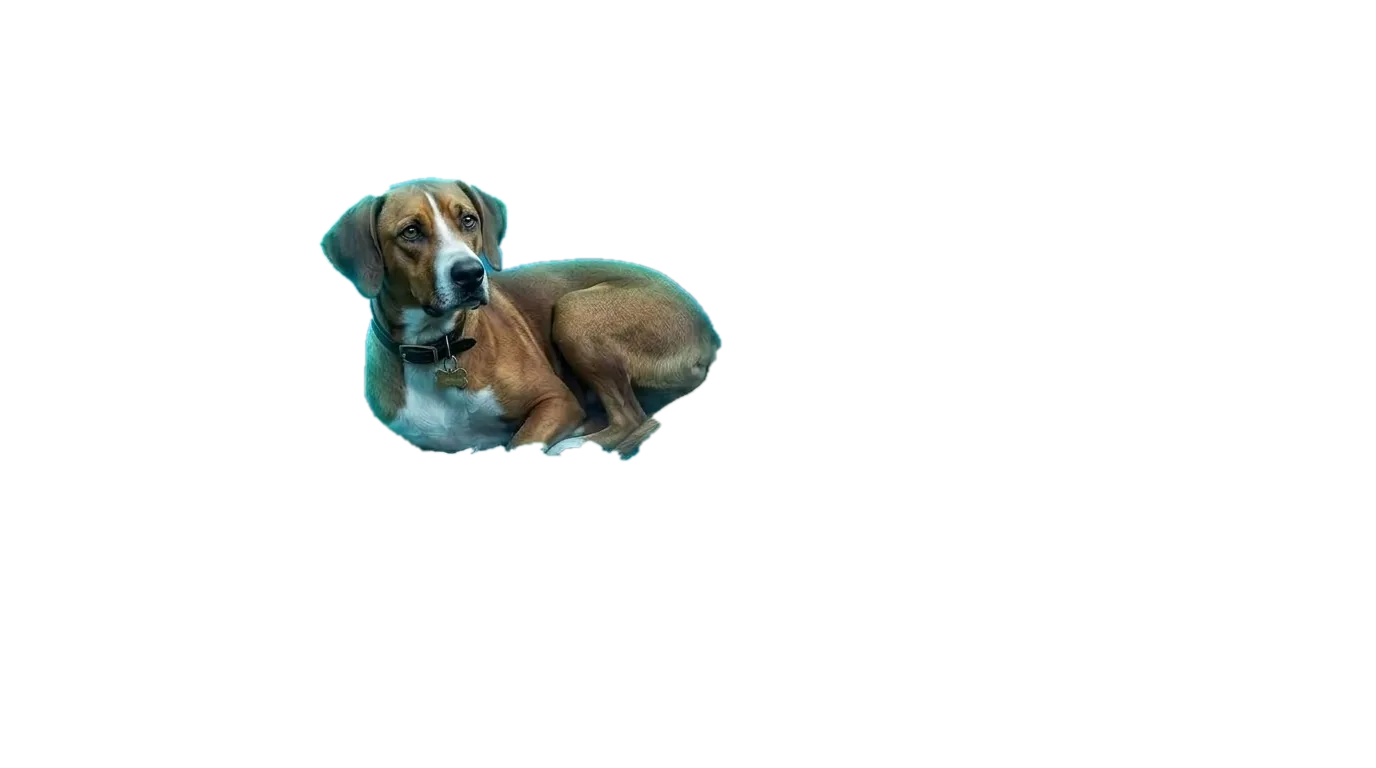
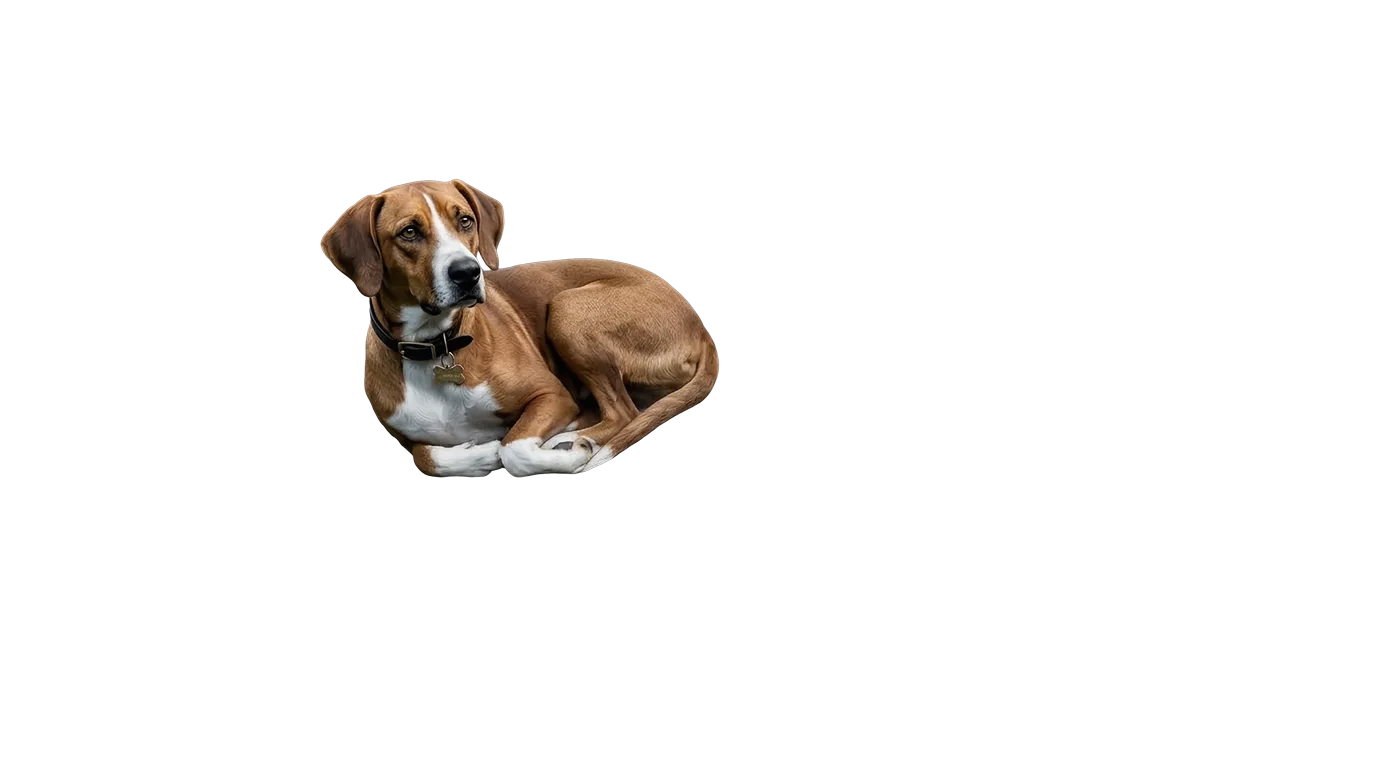
Catalog header: clean diver and Marley PNGs; back to the old header height
- Marley and the diver are now the clean transparent PNGs (no clipped
  edges, nothing behind the shoulder); the cube is its own layer and
  moves with the diver. The round deep-sea badge is rebuilt from the
  same layers, so no older cut-outs remain.
- The header is back to its earlier height (300px): the whole scene
  fits on the right with its left edge fading into the water colour,
  title and intro on the left. On phones the scene runs full width on
  top with the text below.

Claude-Session: https://claude.ai/code/session_0195hiXiVZY5DpQ2CCYEr2vL

Changed region(s): [[0.2188, 0.2188, 0.5312, 0.625]]

diff --git a/index.html b/index.html
@@ -4,8 +4,8 @@
 <meta charset="UTF-8">
 <meta name="viewport" content="width=device-width, initial-scale=1">
 <title>Parts Catalog — Christian Gehrke</title>
-<link rel="stylesheet" href="css/catalog.css?v=1793570000">
-<link rel="stylesheet" href="css/logo.css?v=5">
+<link rel="stylesheet" href="css/catalog.css?v=1793590000">
+<link rel="stylesheet" href="css/logo.css?v=6">
 <link rel="icon" href="/favicon.ico?v=2" sizes="any"><link rel="icon" href="/favicon.svg?v=2" type="image/svg+xml"><link rel="apple-touch-icon" href="/apple-touch-icon.png?v=2">
 <script>/* Logo season from the calendar (the homepage sets it from its own scene). */document.documentElement.dataset.season=["winter","winter","spring","spring","spring","summer","summer","summer","fall","fall","fall","winter"][new Date().getMonth()];</script>
 
@@ -13,7 +13,7 @@
 <body class="deep">
 
 <header class="cat-head cat-hero">
-  <div class="hero-stage" aria-hidden="true"><img src="assets/hero/plate.webp" srcset="assets/hero/plate-800.webp 800w, assets/hero/plate.webp 1376w" sizes="max(100vw, 760px)" alt=""><img class="hero-critter hc-1" src="assets/hero/c-moon.webp" alt=""><img class="hero-critter hc-2" src="assets/hero/c-comb.webp" alt=""><img class="hero-critter hc-3" src="assets/hero/c-blue.webp" alt=""><img class="hero-jelly hero-float" src="assets/hero/jelly.webp" srcset="assets/hero/jelly-800.webp 800w, assets/hero/jelly.webp 1376w" sizes="max(100vw, 760px)" alt=""><img class="hero-float" src="assets/hero/dog.webp" srcset="assets/hero/dog-800.webp 800w, assets/hero/dog.webp 1376w" sizes="max(100vw, 760px)" alt=""><img class="hero-diver" src="assets/hero/diver.webp" srcset="assets/hero/diver-800.webp 800w, assets/hero/diver.webp 1376w" sizes="max(100vw, 760px)" alt=""><svg class="hero-fx" viewBox="0 0 1376 768" preserveAspectRatio="xMidYMid slice"><defs><radialGradient id="hLamp"><stop offset="0" stop-color="#eaf8ff" stop-opacity=".9"/><stop offset=".35" stop-color="#8fd8ff" stop-opacity=".4"/><stop offset="1" stop-color="#3aa0ff" stop-opacity="0"/></radialGradient><radialGradient id="hCube"><stop offset="0" stop-color="#c58bff" stop-opacity=".75"/><stop offset=".45" stop-color="#6fd6ff" stop-opacity=".3"/><stop offset="1" stop-color="#5a3cff" stop-opacity="0"/></radialGradient><radialGradient id="hJelly"><stop offset="0" stop-color="#7fffe0" stop-opacity=".42"/><stop offset=".6" stop-color="#2fd0c8" stop-opacity=".18"/><stop offset="1" stop-color="#0a8fb0" stop-opacity="0"/></radialGradient><radialGradient id="hRay" cx=".5" cy="0" r="1"><stop offset="0" stop-color="#9fe6ff" stop-opacity=".35"/><stop offset="1" stop-color="#2a7fc0" stop-opacity="0"/></radialGradient></defs><ellipse class="hero-glow hero-ray" cx="1080" cy="0" rx="300" ry="420" fill="url(#hRay)"/><g class="hero-float"><circle class="hero-glow hero-g-jelly" cx="538" cy="318" r="330" fill="url(#hJelly)"/></g><circle class="hero-glow hero-g-lamp" cx="920" cy="165" r="95" fill="url(#hLamp)"/><circle class="hero-glow hero-g-lamp2" cx="1158" cy="290" r="88" fill="url(#hLamp)"/><circle class="hero-glow hero-g-cube" cx="875" cy="520" r="150" fill="url(#hCube)"/><g class="hero-snow" fill="#cfefff"><circle cx="705" cy="524" r="1.3" style="animation-duration:20.3s;animation-delay:-20.2s"/><circle cx="221" cy="603" r="1.8" style="animation-duration:23.6s;animation-delay:-22.4s"/><circle cx="75" cy="443" r="2.1" style="animation-duration:15.1s;animation-delay:-8.9s"/><circle cx="1250" cy="371" r="2.1" style="animation-duration:18.1s;animation-delay:-24.0s"/><circle cx="1116" cy="94" r="1.2" style="animation-duration:17.8s;animation-delay:-4.6s"/><circle cx="160" cy="641" r="1.0" style="animation-duration:22.3s;animation-delay:-25.9s"/><circle cx="330" cy="737" r="0.9" style="animation-duration:25.8s;animation-delay:-13.9s"/><circle cx="831" cy="32" r="1.1" style="animation-duration:21.1s;animation-delay:-21.5s"/><circle cx="933" cy="666" r="1.4" style="animation-duration:14.7s;animation-delay:-23.8s"/><circle cx="67" cy="505" r="1.3" style="animation-duration:16.5s;animation-delay:-25.5s"/><circle cx="1155" cy="135" r="1.7" style="animation-duration:23.5s;animation-delay:-2.8s"/><circle cx="889" cy="381" r="1.0" style="animation-duration:24.1s;animation-delay:-7.7s"/><circle cx="928" cy="635" r="2.0" style="animation-duration:25.7s;animation-delay:-11.8s"/><circle cx="999" cy="705" r="1.8" style="animation-duration:19.7s;animation-delay:-7.6s"/><circle cx="826" cy="150" r="1.0" style="animation-duration:23.9s;animation-delay:-13.8s"/><circle cx="367" cy="642" r="2.1" style="animation-duration:24.4s;animation-delay:-4.7s"/><circle cx="1007" cy="278" r="1.5" style="animation-duration:20.6s;animation-delay:-13.1s"/><circle cx="129" cy="364" r="1.8" style="animation-duration:22.0s;animation-delay:-19.8s"/><circle cx="744" cy="572" r="1.8" style="animation-duration:17.4s;animation-delay:-12.6s"/><circle cx="601" cy="348" r="1.7" style="animation-duration:21.0s;animation-delay:-0.3s"/><circle cx="1120" cy="256" r="1.3" style="animation-duration:17.3s;animation-delay:-7.5s"/><circle cx="1024" cy="662" r="1.7" style="animation-duration:18.3s;animation-delay:-7.1s"/><circle cx="707" cy="755" r="2.1" style="animation-duration:18.9s;animation-delay:-24.0s"/><circle cx="353" cy="704" r="1.4" style="animation-duration:18.4s;animation-delay:-8.7s"/><circle cx="290" cy="542" r="2.2" style="animation-duration:16.4s;animation-delay:-9.4s"/><circle cx="977" cy="289" r="1.8" style="animation-duration:22.6s;animation-delay:-19.0s"/><circle cx="351" cy="631" r="1.9" style="animation-duration:21.0s;animation-delay:-17.3s"/><circle cx="861" cy="309" r="1.7" style="animation-duration:23.3s;animation-delay:-16.6s"/><circle cx="56" cy="200" r="1.0" style="animation-duration:19.3s;animation-delay:-16.9s"/><circle cx="448" cy="702" r="1.1" style="animation-duration:22.6s;animation-delay:-25.6s"/><circle cx="463" cy="169" r="0.9" style="animation-duration:15.6s;animation-delay:-8.3s"/><circle cx="371" cy="494" r="1.1" style="animation-duration:14.4s;animation-delay:-12.1s"/><circle cx="778" cy="678" r="1.7" style="animation-duration:21.1s;animation-delay:-6.2s"/><circle cx="765" cy="0" r="1.3" style="animation-duration:25.4s;animation-delay:-22.3s"/><circle cx="235" cy="705" r="2.0" style="animation-duration:18.5s;animation-delay:-0.9s"/><circle cx="1256" cy="308" r="0.9" style="animation-duration:20.5s;animation-delay:-8.8s"/><circle cx="1189" cy="300" r="2.1" style="animation-duration:23.8s;animation-delay:-10.9s"/><circle cx="1154" cy="657" r="1.6" style="animation-duration:19.6s;animation-delay:-4.1s"/><circle cx="783" cy="577" r="1.5" style="animation-duration:16.4s;animation-delay:-3.5s"/><circle cx="186" cy="359" r="1.9" style="animation-duration:21.9s;animation-delay:-9.9s"/><circle cx="667" cy="579" r="2.1" style="animation-duration:20.5s;animation-delay:-8.5s"/><circle cx="1155" cy="384" r="1.4" style="animation-duration:25.7s;animation-delay:-12.8s"/><circle cx="982" cy="725" r="1.3" style="animation-duration:25.5s;animation-delay:-23.8s"/><circle cx="1220" cy="608" r="1.2" style="animation-duration:25.8s;animation-delay:-12.9s"/><circle cx="850" cy="20" r="1.2" style="animation-duration:25.8s;animation-delay:-12.8s"/><circle cx="586" cy="146" r="1.5" style="animation-duration:15.5s;animation-delay:-16.2s"/></g><g fill="none" stroke="#bfeeff" stroke-width="1.6" opacity=".85"><circle class="hero-bub" cx="1024" cy="92" r="3.9" style="--sw:-14px;animation-duration:6.1s;animation-delay:-5.5s"/><circle class="hero-bub" cx="1038" cy="92" r="4.6" style="--sw:-8px;animation-duration:7.8s;animation-delay:-5.2s"/><circle class="hero-bub" cx="992" cy="92" r="4.3" style="--sw:-14px;animation-duration:7.6s;animation-delay:-3.0s"/><circle class="hero-bub" cx="1021" cy="92" r="3.9" style="--sw:-8px;animation-duration:7.2s;animation-delay:-3.3s"/><circle class="hero-bub" cx="1043" cy="92" r="6.0" style="--sw:-14px;animation-duration:6.2s;animation-delay:-6.1s"/><circle class="hero-bub" cx="993" cy="92" r="5.2" style="--sw:-14px;animation-duration:6.3s;animation-delay:-1.1s"/><circle class="hero-bub" cx="998" cy="92" r="5.7" style="--sw:-8px;animation-duration:7.9s;animation-delay:-1.3s"/><circle class="hero-bub" cx="1183" cy="108" r="3.3" style="--sw:-10px;animation-duration:6.1s;animation-delay:-7.0s"/><circle class="hero-bub" cx="1176" cy="108" r="4.9" style="--sw:10px;animation-duration:7.6s;animation-delay:-7.7s"/><circle class="hero-bub" cx="1184" cy="108" r="2.6" style="--sw:10px;animation-duration:6.7s;animation-delay:-7.5s"/><circle class="hero-bub" cx="1169" cy="108" r="3.3" style="--sw:10px;animation-duration:8.0s;animation-delay:-4.7s"/><circle class="hero-bub" cx="1169" cy="108" r="3.3" style="--sw:10px;animation-duration:8.0s;animation-delay:-3.8s"/><circle class="hero-bub" cx="517" cy="60" r="3.0" style="--sw:-10px;animation-duration:9.1s;animation-delay:-0.6s"/><circle class="hero-bub" cx="561" cy="60" r="3.7" style="--sw:10px;animation-duration:7.1s;animation-delay:-7.9s"/><circle class="hero-bub" cx="566" cy="60" r="3.2" style="--sw:-10px;animation-duration:7.0s;animation-delay:-0.5s"/><circle class="hero-bub" cx="629" cy="60" r="3.9" style="--sw:10px;animation-duration:7.6s;animation-delay:-7.6s"/></g></svg></div>
+  <div class="hero-stage" aria-hidden="true"><img src="assets/hero/plate.webp" srcset="assets/hero/plate-800.webp 800w, assets/hero/plate.webp 1376w" sizes="(max-width:640px) 100vw, 560px" alt=""><img class="hero-critter hc-1" src="assets/hero/c-moon.webp" alt=""><img class="hero-critter hc-2" src="assets/hero/c-comb.webp" alt=""><img class="hero-critter hc-3" src="assets/hero/c-blue.webp" alt=""><img class="hero-jelly hero-float" src="assets/hero/jelly.webp" srcset="assets/hero/jelly-800.webp 800w, assets/hero/jelly.webp 1376w" sizes="(max-width:640px) 100vw, 560px" alt=""><img class="hero-float hero-dog" src="assets/hero/dog.webp" srcset="assets/hero/dog-800.webp 800w, assets/hero/dog.webp 1376w" sizes="(max-width:640px) 100vw, 560px" alt=""><img class="hero-diver" src="assets/hero/diver.webp" srcset="assets/hero/diver-800.webp 800w, assets/hero/diver.webp 1376w" sizes="(max-width:640px) 100vw, 560px" alt=""><img class="hero-diver hero-cube" src="assets/hero/cube.webp" srcset="assets/hero/cube-800.webp 800w, assets/hero/cube.webp 1376w" sizes="(max-width:640px) 100vw, 560px" alt=""><svg class="hero-fx" viewBox="0 0 1376 768" preserveAspectRatio="xMidYMid slice"><defs><radialGradient id="hLamp"><stop offset="0" stop-color="#eaf8ff" stop-opacity=".9"/><stop offset=".35" stop-color="#8fd8ff" stop-opacity=".4"/><stop offset="1" stop-color="#3aa0ff" stop-opacity="0"/></radialGradient><radialGradient id="hCube"><stop offset="0" stop-color="#c58bff" stop-opacity=".75"/><stop offset=".45" stop-color="#6fd6ff" stop-opacity=".3"/><stop offset="1" stop-color="#5a3cff" stop-opacity="0"/></radialGradient><radialGradient id="hJelly"><stop offset="0" stop-color="#7fffe0" stop-opacity=".42"/><stop offset=".6" stop-color="#2fd0c8" stop-opacity=".18"/><stop offset="1" stop-color="#0a8fb0" stop-opacity="0"/></radialGradient><radialGradient id="hRay" cx=".5" cy="0" r="1"><stop offset="0" stop-color="#9fe6ff" stop-opacity=".35"/><stop offset="1" stop-color="#2a7fc0" stop-opacity="0"/></radialGradient></defs><ellipse class="hero-glow hero-ray" cx="1080" cy="0" rx="300" ry="420" fill="url(#hRay)"/><g class="hero-float"><circle class="hero-glow hero-g-jelly" cx="538" cy="318" r="330" fill="url(#hJelly)"/></g><circle class="hero-glow hero-g-lamp" cx="920" cy="165" r="95" fill="url(#hLamp)"/><circle class="hero-glow hero-g-lamp2" cx="1158" cy="290" r="88" fill="url(#hLamp)"/><circle class="hero-glow hero-g-cube" cx="875" cy="520" r="150" fill="url(#hCube)"/><g class="hero-snow" fill="#cfefff"><circle cx="705" cy="524" r="1.3" style="animation-duration:20.3s;animation-delay:-20.2s"/><circle cx="221" cy="603" r="1.8" style="animation-duration:23.6s;animation-delay:-22.4s"/><circle cx="75" cy="443" r="2.1" style="animation-duration:15.1s;animation-delay:-8.9s"/><circle cx="1250" cy="371" r="2.1" style="animation-duration:18.1s;animation-delay:-24.0s"/><circle cx="1116" cy="94" r="1.2" style="animation-duration:17.8s;animation-delay:-4.6s"/><circle cx="160" cy="641" r="1.0" style="animation-duration:22.3s;animation-delay:-25.9s"/><circle cx="330" cy="737" r="0.9" style="animation-duration:25.8s;animation-delay:-13.9s"/><circle cx="831" cy="32" r="1.1" style="animation-duration:21.1s;animation-delay:-21.5s"/><circle cx="933" cy="666" r="1.4" style="animation-duration:14.7s;animation-delay:-23.8s"/><circle cx="67" cy="505" r="1.3" style="animation-duration:16.5s;animation-delay:-25.5s"/><circle cx="1155" cy="135" r="1.7" style="animation-duration:23.5s;animation-delay:-2.8s"/><circle cx="889" cy="381" r="1.0" style="animation-duration:24.1s;animation-delay:-7.7s"/><circle cx="928" cy="635" r="2.0" style="animation-duration:25.7s;animation-delay:-11.8s"/><circle cx="999" cy="705" r="1.8" style="animation-duration:19.7s;animation-delay:-7.6s"/><circle cx="826" cy="150" r="1.0" style="animation-duration:23.9s;animation-delay:-13.8s"/><circle cx="367" cy="642" r="2.1" style="animation-duration:24.4s;animation-delay:-4.7s"/><circle cx="1007" cy="278" r="1.5" style="animation-duration:20.6s;animation-delay:-13.1s"/><circle cx="129" cy="364" r="1.8" style="animation-duration:22.0s;animation-delay:-19.8s"/><circle cx="744" cy="572" r="1.8" style="animation-duration:17.4s;animation-delay:-12.6s"/><circle cx="601" cy="348" r="1.7" style="animation-duration:21.0s;animation-delay:-0.3s"/><circle cx="1120" cy="256" r="1.3" style="animation-duration:17.3s;animation-delay:-7.5s"/><circle cx="1024" cy="662" r="1.7" style="animation-duration:18.3s;animation-delay:-7.1s"/><circle cx="707" cy="755" r="2.1" style="animation-duration:18.9s;animation-delay:-24.0s"/><circle cx="353" cy="704" r="1.4" style="animation-duration:18.4s;animation-delay:-8.7s"/><circle cx="290" cy="542" r="2.2" style="animation-duration:16.4s;animation-delay:-9.4s"/><circle cx="977" cy="289" r="1.8" style="animation-duration:22.6s;animation-delay:-19.0s"/><circle cx="351" cy="631" r="1.9" style="animation-duration:21.0s;animation-delay:-17.3s"/><circle cx="861" cy="309" r="1.7" style="animation-duration:23.3s;animation-delay:-16.6s"/><circle cx="56" cy="200" r="1.0" style="animation-duration:19.3s;animation-delay:-16.9s"/><circle cx="448" cy="702" r="1.1" style="animation-duration:22.6s;animation-delay:-25.6s"/><circle cx="463" cy="169" r="0.9" style="animation-duration:15.6s;animation-delay:-8.3s"/><circle cx="371" cy="494" r="1.1" style="animation-duration:14.4s;animation-delay:-12.1s"/><circle cx="778" cy="678" r="1.7" style="animation-duration:21.1s;animation-delay:-6.2s"/><circle cx="765" cy="0" r="1.3" style="animation-duration:25.4s;animation-delay:-22.3s"/><circle cx="235" cy="705" r="2.0" style="animation-duration:18.5s;animation-delay:-0.9s"/><circle cx="1256" cy="308" r="0.9" style="animation-duration:20.5s;animation-delay:-8.8s"/><circle cx="1189" cy="300" r="2.1" style="animation-duration:23.8s;animation-delay:-10.9s"/><circle cx="1154" cy="657" r="1.6" style="animation-duration:19.6s;animation-delay:-4.1s"/><circle cx="783" cy="577" r="1.5" style="animation-duration:16.4s;animation-delay:-3.5s"/><circle cx="186" cy="359" r="1.9" style="animation-duration:21.9s;animation-delay:-9.9s"/><circle cx="667" cy="579" r="2.1" style="animation-duration:20.5s;animation-delay:-8.5s"/><circle cx="1155" cy="384" r="1.4" style="animation-duration:25.7s;animation-delay:-12.8s"/><circle cx="982" cy="725" r="1.3" style="animation-duration:25.5s;animation-delay:-23.8s"/><circle cx="1220" cy="608" r="1.2" style="animation-duration:25.8s;animation-delay:-12.9s"/><circle cx="850" cy="20" r="1.2" style="animation-duration:25.8s;animation-delay:-12.8s"/><circle cx="586" cy="146" r="1.5" style="animation-duration:15.5s;animation-delay:-16.2s"/></g><g fill="none" stroke="#bfeeff" stroke-width="1.6" opacity=".85"><circle class="hero-bub" cx="1024" cy="92" r="3.9" style="--sw:-14px;animation-duration:6.1s;animation-delay:-5.5s"/><circle class="hero-bub" cx="1038" cy="92" r="4.6" style="--sw:-8px;animation-duration:7.8s;animation-delay:-5.2s"/><circle class="hero-bub" cx="992" cy="92" r="4.3" style="--sw:-14px;animation-duration:7.6s;animation-delay:-3.0s"/><circle class="hero-bub" cx="1021" cy="92" r="3.9" style="--sw:-8px;animation-duration:7.2s;animation-delay:-3.3s"/><circle class="hero-bub" cx="1043" cy="92" r="6.0" style="--sw:-14px;animation-duration:6.2s;animation-delay:-6.1s"/><circle class="hero-bub" cx="993" cy="92" r="5.2" style="--sw:-14px;animation-duration:6.3s;animation-delay:-1.1s"/><circle class="hero-bub" cx="998" cy="92" r="5.7" style="--sw:-8px;animation-duration:7.9s;animation-delay:-1.3s"/><circle class="hero-bub" cx="1183" cy="108" r="3.3" style="--sw:-10px;animation-duration:6.1s;animation-delay:-7.0s"/><circle class="hero-bub" cx="1176" cy="108" r="4.9" style="--sw:10px;animation-duration:7.6s;animation-delay:-7.7s"/><circle class="hero-bub" cx="1184" cy="108" r="2.6" style="--sw:10px;animation-duration:6.7s;animation-delay:-7.5s"/><circle class="hero-bub" cx="1169" cy="108" r="3.3" style="--sw:10px;animation-duration:8.0s;animation-delay:-4.7s"/><circle class="hero-bub" cx="1169" cy="108" r="3.3" style="--sw:10px;animation-duration:8.0s;animation-delay:-3.8s"/><circle class="hero-bub" cx="517" cy="60" r="3.0" style="--sw:-10px;animation-duration:9.1s;animation-delay:-0.6s"/><circle class="hero-bub" cx="561" cy="60" r="3.7" style="--sw:10px;animation-duration:7.1s;animation-delay:-7.9s"/><circle class="hero-bub" cx="566" cy="60" r="3.2" style="--sw:-10px;animation-duration:7.0s;animation-delay:-0.5s"/><circle class="hero-bub" cx="629" cy="60" r="3.9" style="--sw:10px;animation-duration:7.6s;animation-delay:-7.6s"/></g></svg></div>
   <div class="hero-text"><a class="cat-brand" href="../">Parts Catalog</a>
   <p class="cat-tagline">Every object the scene engine knows how to build — searchable, grouped, and demoed live with the same code that runs in production. New parts start in the <a href="workshop.html">Workshop</a>.</p></div>
 </header>

diff --git a/css/catalog.css b/css/catalog.css
@@ -334,24 +334,17 @@ body.deep .cat-foot code{background:var(--d-glass);color:var(--d-ink2)}
 body.deep .cat-note,body.deep .cat-body p{color:var(--d-ink2)}
 body.deep .cat-body p.cat-tags{color:var(--d-ink2)!important}
 
-/* ── Deep-sea header: the whole logo scene ─────────────────────────────
-   The stage keeps the art's 1376x768 shape: on narrow screens it covers the header and crops the
-   sides; on wide ones it stops growing once a fifth of its height is cropped, and its faded edges
-   meet the page colour. The title sits on a fade into the page below. */
-.cat-hero{--hh:clamp(340px,40vw,600px);position:relative;height:var(--hh);padding:0;overflow:hidden;background:#061429;isolation:isolate}
-.hero-stage{position:absolute;left:50%;top:50%;width:clamp(calc(var(--hh) * 1.7917),100%,calc(var(--hh) * 2.3));
-  -webkit-mask-image:linear-gradient(90deg,transparent 0,#000 7%,#000 93%,transparent 100%);mask-image:linear-gradient(90deg,transparent 0,#000 7%,#000 93%,transparent 100%);aspect-ratio:1376/768;transform:translate(-50%,-50%);z-index:-1}
+/* ── Deep-sea header ───────────────────────────────────────────────────
+   Same height as the old header. The whole scene fits in it (nothing cropped), on the right, its
+   left edge fading into the water colour; the title and intro sit on the left. On phones the
+   scene runs full width on top and the text goes below it. */
+.cat-hero{position:relative;min-height:300px;padding:0;overflow:hidden;isolation:isolate;
+  background:radial-gradient(ellipse 70% 120% at 85% 40%,#0c3358 0%,#071c36 55%,#061429 100%)}
+.hero-stage{position:absolute;right:0;top:0;height:100%;aspect-ratio:1376/768;z-index:-1;
+  -webkit-mask-image:linear-gradient(90deg,transparent 0,#000 30%,#000 96%,transparent 100%),linear-gradient(0deg,transparent 0,#000 12%);
+  -webkit-mask-composite:source-in;mask-image:linear-gradient(90deg,transparent 0,#000 30%,#000 96%,transparent 100%),linear-gradient(0deg,transparent 0,#000 12%);mask-composite:intersect}
 .hero-stage>img:not(.hero-critter),.hero-fx{position:absolute;inset:0;width:100%;height:100%;display:block}
-.hero-diver{animation:hero-diver 9s ease-in-out infinite}
-@keyframes hero-diver{0%,100%{transform:translate(0,0)}50%{transform:translate(-.4%,1.1%)}}
-/* A few small drifters cross the water slowly, on screen so they read as light */
-.hero-critter{position:absolute;display:block;mix-blend-mode:screen;opacity:.8;pointer-events:none}
-.hc-1{width:7%;left:4%;top:62%;animation:hc-a 46s linear infinite}
-.hc-2{width:4.5%;left:58%;top:70%;animation:hc-b 38s linear infinite -12s}
-.hc-3{width:5%;left:20%;top:8%;animation:hc-c 52s linear infinite -20s}
-@keyframes hc-a{0%{transform:translate(0,0)}50%{transform:translate(160%,-60%) rotate(6deg)}100%{transform:translate(0,0)}}
-@keyframes hc-b{0%{transform:translate(0,0) rotate(-8deg)}50%{transform:translate(-220%,-90%) rotate(4deg)}100%{transform:translate(0,0) rotate(-8deg)}}
-@keyframes hc-c{0%{transform:translate(0,0) rotate(20deg)}50%{transform:translate(180%,140%) rotate(10deg)}100%{transform:translate(0,0) rotate(20deg)}}
+.hero-dog{filter:brightness(.93) saturate(.92)}
 .hero-jelly{mix-blend-mode:screen}
 .hero-float{animation:hero-float 8s ease-in-out infinite}
 .hero-glow{mix-blend-mode:screen;animation:dp-pulse 4.2s ease-in-out infinite}
@@ -364,11 +357,15 @@ body.deep .cat-body p.cat-tags{color:var(--d-ink2)!important}
 @keyframes hero-ray{0%,100%{opacity:.5}50%{opacity:1}}
 @keyframes hero-rise{0%{transform:translate(0,20px);opacity:0}10%{opacity:.9}50%{transform:translate(var(--sw),-120px)}100%{transform:translate(0,-280px);opacity:0}}
 @keyframes hero-snow{0%{transform:translate(0,-40px);opacity:0}15%{opacity:.6}85%{opacity:.6}100%{transform:translate(18px,90px);opacity:0}}
-.cat-hero::after{content:"";position:absolute;inset:0;z-index:-1;pointer-events:none;
-  background:linear-gradient(180deg,rgba(6,20,41,0) 45%,rgba(6,20,41,.55) 72%,#061429 100%)}
-.hero-text{position:absolute;left:0;right:0;bottom:0;padding:0 clamp(20px,5vw,64px) 22px}
-.cat-hero .cat-brand{font-size:clamp(32px,4.6vw,54px);letter-spacing:-.01em;color:#e9fbff;text-shadow:0 0 18px rgba(79,216,232,.55),0 2px 10px rgba(0,0,0,.6)}
+.hero-text{position:relative;padding:44px clamp(20px,5vw,64px) 26px;max-width:min(620px,52%)}
+.cat-hero .cat-brand{font-size:clamp(30px,3.6vw,46px);letter-spacing:-.01em;color:#e9fbff;text-shadow:0 0 18px rgba(79,216,232,.55),0 2px 10px rgba(0,0,0,.6)}
 .cat-hero .cat-tagline{color:#cfe9f3;text-shadow:0 1px 8px rgba(0,0,0,.7);margin-top:6px}
-@media (max-width:640px){.cat-hero{--hh:360px}.hero-stage{left:58%}.cat-hero .cat-tagline{font-size:14px}}
+@media (max-width:820px){.hero-text{max-width:60%}}
+@media (max-width:640px){
+  .cat-hero{min-height:0;display:flex;flex-direction:column}
+  .hero-stage{position:relative;flex:none;width:100%;height:calc(100vw * 768 / 1376);
+    -webkit-mask-image:linear-gradient(0deg,transparent 0,#000 18%);mask-image:linear-gradient(0deg,transparent 0,#000 18%)}
+  .hero-text{max-width:none;padding-top:0;margin-top:-18px}
+  .cat-hero .cat-tagline{font-size:14px}}
 @media (prefers-reduced-motion:reduce){.hero-diver,.hero-critter,.hero-float,.hero-glow,.hero-ray,.hero-bub,.hero-snow circle{animation:none}.hero-glow{opacity:.6}}
 body.deep{background:linear-gradient(180deg,#061429 0,#071a33 420px,#040b1a 100%) fixed}
